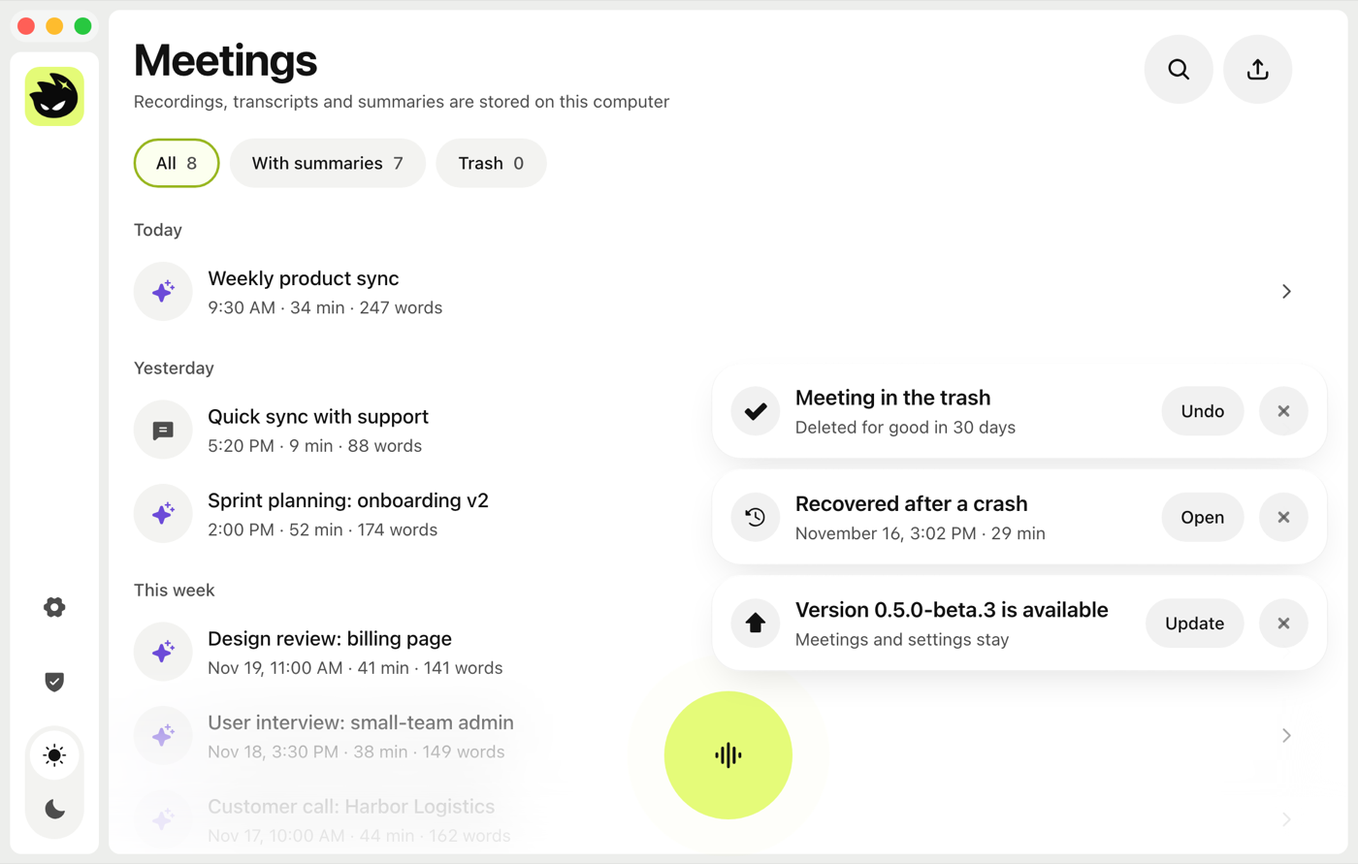
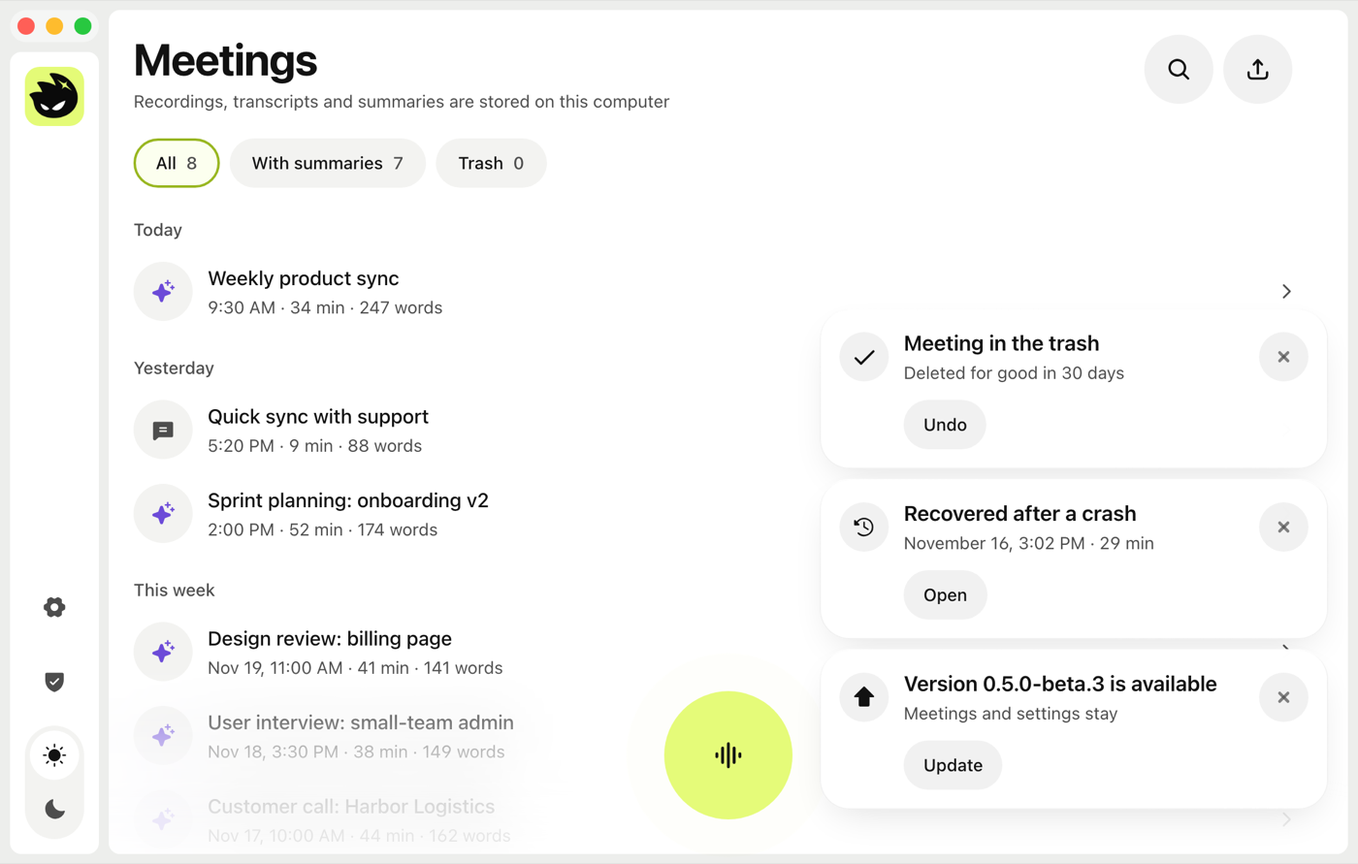
Угол в правом нижнем углу до кнопки записи, галочка тоньше
Стек больше не поднимается над кнопкой записи при окне 1100: ширина угла
до места справа от дока (не больше 500, не меньше 360), низ на линии дока.
Уже 500 действие встаёт под текст второй строкой, заголовок и подпись
в одну строку. Меньше 360 сбоку (капсула записи, итог, окно 640) - подъём.

Галочка «готово» в карточках уведомлений Check bold вместо CheckFat:
по весу с часами и стрелкой. Страж значков пропускает её только там.

Снимки и тур пересняты.

diff --git a/frontend/src/shade/lib/notice-stack.test.ts b/frontend/src/shade/lib/notice-stack.test.ts
@@ -1,36 +1,51 @@
 // Ширина угла и когда он поднимается над доком записи: bun test src/shade (pnpm test).
 import { describe, expect, test } from 'bun:test';
-import { CORNER_WIDTH, cornerLayout, SIDE_GAP, TOAST_EDGE } from './notice-stack';
+import { CORNER_MIN, CORNER_WIDTH, cornerLayout, SIDE_GAP, TOAST_EDGE } from './notice-stack';
 
 // Колонка 0..R, свободное место справа от содержимого дока: R - 16 - (right + 24)
 const R = 1200;
 const rightFor = (free: number) => R - TOAST_EDGE - SIDE_GAP - free;
 
-describe('cornerLayout: одна ширина, подъём вместо сужения', () => {
-  test('ширина угла 500 px (самая длинная строка с кнопкой)', () => {
+describe('cornerLayout: в углу, до места сбоку от дока; меньше CORNER_MIN - подъём', () => {
+  test('ширина угла до 500 px (самая длинная строка с кнопкой), не уже 360 px сбоку', () => {
     expect(CORNER_WIDTH).toBe(500);
+    expect(CORNER_MIN).toBe(360);
   });
   test('пустой док: полная ширина, низ на линии дока', () => {
     expect(cornerLayout(R, R, [])).toEqual({ width: CORNER_WIDTH, lift: false });
   });
-  test('сбоку ровно ширина угла: стоит рядом с доком', () => {
-    expect(cornerLayout(R, R, [rightFor(CORNER_WIDTH)])).toEqual({ width: CORNER_WIDTH, lift: false });
+  test('сбоку больше 500: 500, рядом с доком', () => {
+    expect(cornerLayout(R, R, [rightFor(CORNER_WIDTH + 200)])).toEqual({ width: CORNER_WIDTH, lift: false });
   });
-  test('на 1 px меньше: не сужается, а поднимается над доком', () => {
-    expect(cornerLayout(R, R, [rightFor(CORNER_WIDTH - 1)])).toEqual({ width: CORNER_WIDTH, lift: true });
+  test('сбоку 420: сужается до 420 и стоит рядом, в кнопку не упирается', () => {
+    const r = cornerLayout(R, R, [rightFor(420)]);
+    expect(r).toEqual({ width: 420, lift: false });
+    // левый край угла правее содержимого дока с зазором
+    expect(R - TOAST_EDGE - r.width).toBeGreaterThanOrEqual(rightFor(420) + SIDE_GAP);
   });
-  test('окно 1100 (колонка 1004) и кнопка записи 104 px: над доком справа', () => {
+  test('сбоку ровно CORNER_MIN: ещё рядом; на 1 px меньше - над доком во всю ширину', () => {
+    expect(cornerLayout(R, R, [rightFor(CORNER_MIN)])).toEqual({ width: CORNER_MIN, lift: false });
+    expect(cornerLayout(R, R, [rightFor(CORNER_MIN - 1)])).toEqual({ width: CORNER_WIDTH, lift: true });
+  });
+  test('окно 1100 (колонка 1004) и кнопка записи 104 px: рядом с кнопкой, 410 px', () => {
     const col = 1004;
-    expect(cornerLayout(col, col, [col / 2 + 52])).toEqual({ width: CORNER_WIDTH, lift: true });
+    expect(cornerLayout(col, col, [col / 2 + 52])).toEqual({ width: 410, lift: false });
   });
-  test('широкое окно (колонка 1400) и кнопка записи: рядом с кнопкой', () => {
+  test('широкое окно (колонка 1400) и кнопка записи: рядом, 500 px', () => {
     const col = 1400;
     expect(cornerLayout(col, col, [col / 2 + 52])).toEqual({ width: CORNER_WIDTH, lift: false });
   });
-  test('считается по самой широкой строке дока', () => {
-    expect(cornerLayout(R, R, [300, 900])).toEqual({ width: CORNER_WIDTH, lift: true });
+  test('капсула записи или итог в доке (широкая строка): над доком', () => {
+    const col = 1004;
+    expect(cornerLayout(col, col, [col / 2 + 52, col / 2 + 260])).toEqual({ width: CORNER_WIDTH, lift: true });
   });
-  test('узкая колонка 420: угол во всю колонку без полей, над доком', () => {
+  test('окно 640 (колонка 544) и кнопка записи: над доком, ширина колонки без полей', () => {
+    expect(cornerLayout(544, 544, [272 + 52])).toEqual({ width: 500, lift: true });
+  });
+  test('узкая колонка 420: угол во всю колонку без полей; сбоку места нет - над доком', () => {
     expect(cornerLayout(420, 420, [300])).toEqual({ width: 388, lift: true });
+  });
+  test('свободное место дробное: ширина целая, вниз', () => {
+    expect(cornerLayout(R, R, [rightFor(420.6)]).width).toBe(420);
   });
 });

diff --git a/frontend/src/shade/lib/notice-stack.ts b/frontend/src/shade/lib/notice-stack.ts
@@ -1,8 +1,9 @@
 // Угол (CornerStack) стоит в правом нижнем углу колонки страницы, низ на одной линии с низом
-// дока записи (RecordDock: кнопка записи, капсула, итог, карточки про микрофон). Ширина угла
-// одна, CORNER_WIDTH (по самой длинной строке с кнопкой, ru и en, docs/ui/notifications.md);
-// уже она бывает только в колонке уже CORNER_WIDTH + 2 × 16 px. Если сбоку от содержимого
-// дока ширины нет, стек поднимается над доком на 8 px (--tile-gap), оставаясь справа: друг на
+// дока записи (RecordDock: кнопка записи, капсула, итог, карточки про микрофон). Ширина угла не
+// больше CORNER_WIDTH (по самой длинной строке с кнопкой, ru и en, docs/ui/notifications.md) и не
+// больше места справа от содержимого дока: карточки не упираются в кнопку записи и не оставляют
+// пустоты под собой (решение владельца 21.11.2026). Если сбоку меньше CORNER_MIN, стек
+// поднимается над доком на 8 px (--tile-gap), оставаясь справа, во всю ширину угла: друг на
 // друга док и угол не ложатся ни при какой ширине окна.
 //
 // RecordDock меряет себя и пишет в :root переменные, стиль угла в globals.css (.shade-corner)
@@ -30,6 +31,12 @@ export const CORNER_WIDTH = 500;
 /** Прежнее имя ширины (тесты и стили). */
 export const TOAST_WIDTH = CORNER_WIDTH;
 
+/**
+ * Уже этого сбоку от дока угол не сужается, а поднимается над доком: заголовок самой длинной
+ * карточки («Восстановлена после сбоя», «Доступна версия X») в одну строку, действие под ним.
+ */
+export const CORNER_MIN = 360;
+
 /** Зазор сбоку между содержимым дока и углом (с запасом на ореол кнопки записи). */
 export const SIDE_GAP = 24;
 
@@ -50,14 +57,15 @@ function contentRight(el: HTMLElement, full: number): number {
 
 /**
  * Ширина угла и нужен ли подъём над доком (чистая функция для теста). rights: правые края
- * содержимого строк дока; пустой список, если в доке пусто. Ширина одна: сбоку не помещается
- * целиком - подъём, а не сужение.
+ * содержимого строк дока; пустой список, если в доке пусто. Сбоку от дока угол сужается до
+ * свободного места, но не уже CORNER_MIN; меньше - подъём во всю ширину.
  */
 export function cornerLayout(columnRight: number, columnWidth: number, rights: number[]): { width: number; lift: boolean } {
-  const width = Math.max(0, Math.min(CORNER_WIDTH, columnWidth - 2 * TOAST_EDGE));
-  if (rights.length === 0) return { width, lift: false };
-  const free = columnRight - TOAST_EDGE - (Math.max(...rights) + SIDE_GAP);
-  return { width, lift: free < width };
+  const full = Math.max(0, Math.min(CORNER_WIDTH, columnWidth - 2 * TOAST_EDGE));
+  if (rights.length === 0) return { width: full, lift: false };
+  const free = Math.floor(columnRight - TOAST_EDGE - (Math.max(...rights) + SIDE_GAP));
+  if (free >= Math.min(CORNER_MIN, full)) return { width: Math.min(full, free), lift: false };
+  return { width: full, lift: true };
 }
 
 const useIsoLayoutEffect = typeof window !== 'undefined' ? useLayoutEffect : useEffect;

diff --git a/frontend/src/shade/components/ui/notice.tsx b/frontend/src/shade/components/ui/notice.tsx
@@ -8,10 +8,12 @@
 // длинная ошибка ядра обрезается многоточием, целиком в подсказке. Действие - серая капсула
 // (NOTICE_SECONDARY): лайм только у кнопки записи и «Отправить» в форме отзыва.
 // Ошибки role="alert", остальное role="status"; фокус карточка не забирает.
+// Угол уже CORNER_WIDTH (место справа от кнопки записи): действие переходит под текст второй
+// строкой, крестик справа сверху (@container shade-corner в globals.css).
 'use client';
 
 import * as React from 'react';
-import { ArrowFatUp, CheckFat, ClockCounterClockwise, Warning } from '@phosphor-icons/react';
+import { ArrowFatUp, Check, ClockCounterClockwise, Warning } from '@phosphor-icons/react';
 import { CloseButton } from '@/shade/components/ui/close-button';
 import { Spinner } from '@/shade/components/ui/spinner';
 import { Button } from '@/shade/components/ui/button';
@@ -46,11 +48,12 @@ const MARK_TONE: Record<NoticeTone, string> = {
   error: `${MARK_BG} text-destructive-ink`,
 };
 
-/** Значок по смыслу. Все Phosphor в заливке, «i» свой (InfoFatIcon), ожидание - Spinner. */
+/** Значок по смыслу. Phosphor в заливке, галочка bold (по весу с часами и стрелкой), «i» свой (InfoFatIcon), ожидание - Spinner. */
 export function NoticeGlyph({ kind }: { kind: NoticeIconKind }) {
   switch (kind) {
     case 'done':
-      return <CheckFat weight="fill" />;
+      // Обычная галочка bold: CheckFat тяжелее часов и стрелки рядом (решение владельца 21.11.2026)
+      return <Check weight="bold" />;
     case 'info':
       return <InfoFatIcon />;
     case 'problem':
@@ -107,11 +110,11 @@ export const Notice = React.forwardRef<HTMLDivElement, NoticeProps>(
   ({ icon, tone = 'neutral', title, hint, hintTitle, actions, onClose, closeLabel, className, ...props }, ref) => (
     <NoticeSurface ref={ref} className={cn('flex min-w-0 items-center gap-3', className)} data-shade-notice="" {...props}>
       {icon && (
-        <NoticeMark tone={icon === 'problem' && tone === 'neutral' ? 'error' : tone}>
+        <NoticeMark tone={icon === 'problem' && tone === 'neutral' ? 'error' : tone} className="shade-notice-mark">
           <NoticeGlyph kind={icon} />
         </NoticeMark>
       )}
-      <div className={cn('min-w-0 flex-1', !icon && 'pl-1')}>
+      <div className={cn('shade-notice-text min-w-0 flex-1', !icon && 'pl-1')}>
         <p className={NOTICE_TITLE} title={typeof title === 'string' ? title : undefined}>
           {title}
         </p>
@@ -121,8 +124,8 @@ export const Notice = React.forwardRef<HTMLDivElement, NoticeProps>(
           </p>
         )}
       </div>
-      {actions && <div className="flex shrink-0 items-center gap-2">{actions}</div>}
-      {onClose && <CloseButton label={closeLabel ?? ''} onClick={onClose} className="static size-10 translate-y-0" />}
+      {actions && <div className="shade-notice-actions flex shrink-0 items-center gap-2">{actions}</div>}
+      {onClose && <CloseButton label={closeLabel ?? ''} onClick={onClose} className="shade-notice-close static size-10 translate-y-0" />}
     </NoticeSurface>
   ),
 );

diff --git a/frontend/src/shade/lib/icons-guard.test.ts b/frontend/src/shade/lib/icons-guard.test.ts
@@ -1,6 +1,7 @@
 // Страж значков (docs/ui/foundations.md, «Иконки»): только Phosphor, только залитые. bun test src/shade (pnpm test).
 //  1. Чужих наборов значков в слое Shade нет.
-//  2. Начертания regular, light, thin, duotone не используются; bold только у шевронов Caret* и лупы.
+//  2. Начертания regular, light, thin, duotone не используются; bold только у шевронов Caret*, лупы
+//     и галочки Check в круге карточек уведомлений (ui/notice.tsx, FinishCard.tsx; владелец 21.11.2026).
 //  3. Заливку по умолчанию даёт ShadeIcons (IconContext). Компонент Shade, смонтированный в
 //     app/layout.tsx вне <ShadeIcons>, обязан обернуть себя сам, если он сам или то, что он
 //     импортирует, рисует значки Phosphor: иначе знаки без явного weight рисуются контуром
@@ -28,7 +29,7 @@ describe('значки Shade', () => {
     expect(bad.map((f) => relative(SRC, f))).toEqual([]);
   });
 
-  test('начертания: только fill; bold у шевронов Caret* и лупы MagnifyingGlass', () => {
+  test('начертания: только fill; bold у шевронов Caret*, лупы MagnifyingGlass и галочки уведомлений', () => {
     const bad: string[] = [];
     for (const f of files) {
       const lines = read(f).split('\n');
@@ -37,6 +38,8 @@ describe('значки Shade', () => {
           const [, tag, weight] = m;
           if (weight === 'fill') continue;
           if (weight === 'bold' && (/^Caret/.test(tag) || tag === 'MagnifyingGlass')) continue;
+          // Галочка «готово» в круге уведомлений: CheckFat тяжелее часов и стрелки рядом
+          if (weight === 'bold' && tag === 'Check' && /components\/(ui\/notice|FinishCard)\.tsx$/.test(f)) continue;
           bad.push(`${relative(SRC, f)}:${i + 1} <${tag} weight="${weight}">`);
         }
       });

diff --git a/frontend/src/shade/styles/globals.css b/frontend/src/shade/styles/globals.css
@@ -235,6 +235,8 @@
    (--shade-toast-w, lib/notice-stack.ts); если сбоку от дока не помещается, подъём над доком
    через transform, плавно. Высота не больше окна: раскрытый стек прокручивается. */
 .shade-corner {
+  /* Ширину угла читают карточки: уже 500 px действие уходит под текст (ниже) */
+  container: shade-corner / inline-size;
   right: calc(var(--shade-stack-right, 0px) + 16px);
   bottom: var(--shade-stack-bottom, 28px);
   width: var(--shade-toast-w, min(500px, calc(100vw - 32px)));
@@ -254,6 +256,33 @@
 
 .shade-corner-list::-webkit-scrollbar {
   display: none;
+}
+
+/* Узкий угол (сбоку от кнопки записи меньше 500 px, lib/notice-stack.ts): заголовок и подпись
+   в одну строку на всю ширину, действие второй строкой под текстом, крестик справа сверху.
+   Порог - CORNER_WIDTH: шире все строки с кнопкой помещаются в одну. */
+@container shade-corner (max-width: 499px) {
+  .shade-corner [data-shade-notice]:has(> .shade-notice-actions) {
+    display: grid;
+    grid-template-columns: auto minmax(0, 1fr) auto;
+    grid-template-areas:
+      'mark text close'
+      '. actions actions';
+    row-gap: 12px;
+  }
+  .shade-corner [data-shade-notice] > .shade-notice-mark {
+    grid-area: mark;
+  }
+  .shade-corner [data-shade-notice] > .shade-notice-text {
+    grid-area: text;
+  }
+  .shade-corner [data-shade-notice] > .shade-notice-actions {
+    grid-area: actions;
+    justify-self: start;
+  }
+  .shade-corner [data-shade-notice] > .shade-notice-close {
+    grid-area: close;
+  }
 }
 
 /* Пока открыт диалог, угол ждёт под его затемнением, а не ложится поверх окна */

diff --git a/frontend/src/shade/components/CornerStack.tsx b/frontend/src/shade/components/CornerStack.tsx
@@ -4,7 +4,8 @@
 //  - Стек снизу вверх, новая снизу, промежуток 8 px (STACK_GAP). Видно не больше трёх (MAX_VISIBLE);
 //    старшие свёрнуты в стопку «+N» над верхней карточкой. Наведение или фокус раскрывают все.
 //  - Пока указатель или фокус на стеке и пока окно свёрнуто, время у всех карточек стоит.
-//  - Ширина одна (--shade-toast-w), место и подъём над доком считает lib/notice-stack.ts.
+//  - Ширина общая (--shade-toast-w, до 500 px и не больше места справа от кнопки записи), место
+//    и подъём над доком считает lib/notice-stack.ts; уже 500 px действие под текстом (globals.css).
 //  - Появление из размытия со сдвигом снизу, уход на месте с размытием, соседи съезжают плавно
 //    (высота через grid-template-rows); prefers-reduced-motion: только прозрачность (globals.css).
 //  - Фокус не перехватывается: карточка появляется, но фокус остаётся, где был.

diff --git a/frontend/src/shade/components/FinishCard.tsx b/frontend/src/shade/components/FinishCard.tsx
@@ -10,7 +10,7 @@
 'use client';
 
 import { useEffect, useState } from 'react';
-import { CheckFat } from '@phosphor-icons/react';
+import { Check } from '@phosphor-icons/react';
 import { Notice, NoticeButton } from '@/shade/components/ui/notice';
 import { resultTimeout } from '@/shade/lib/notice-timing';
 import { SoundCheckDialog } from '@/shade/components/SoundCheck';
@@ -39,7 +39,7 @@ export function FinishGlyph({ stage }: { stage: FinishCardStage }) {
           <span className="shade-fg-in" />
         </span>
       ))}
-      <CheckFat className="shade-fg-check" />
+      <Check weight="bold" className="shade-fg-check" />
     </span>
   );
 }

diff --git a/docs/ui/notifications.md b/docs/ui/notifications.md
@@ -25,7 +25,7 @@
   - две восстановлены после сбоя: «Восстановлено 2 встречи» и «Показать» (список встреч).
 - Тот же `id` заменяет карточку на месте (ожидание → итог, как в sonner).
 - «Не получилось обновить» только после «Обновить» человеком; фоновая проверка без сети или с битой подписью молчит (`lib/updates.ts`). «Доступна версия» во время записи не показывается.
-- Стек никогда не накрывает док. Ширина угла одна, 500 px (`CORNER_WIDTH`, по самой длинной строке «Доступна версия 0.5.0-beta.2» и «Обновить» на обоих языках), уже колонки без полей не бывает. Если справа от дока места меньше, стек поднимается над доком и остаётся справа (`cornerLayout` в `lib/notice-stack.ts`). Окно 1100 px: подъём; колонка от 1400 px: сбоку от кнопки.
+- Стек в правом нижнем углу колонки, низ на линии дока, и никогда не накрывает док (решение владельца 21.11.2026: без пустоты под стеком, в кнопку записи не упираться). Ширина не больше 500 px (`CORNER_WIDTH`, по самой длинной строке «Доступна версия 0.5.0-beta.2» и «Обновить» на обоих языках) и не больше места справа от содержимого дока с зазором 24 px (`cornerLayout` в `lib/notice-stack.ts`). Уже 500 px действие карточки встаёт под текст второй строкой, крестик справа сверху (`@container shade-corner` в `globals.css`), и заголовок с подписью остаются в одну строку. Сбоку меньше 360 px (`CORNER_MIN`: капсула записи, итог в доке, окно 640) - стек поднимается над доком во всю ширину и остаётся справа. Окно 1100 с кнопкой записи: сбоку, 412 px; от 1300: 500 px.
 - Пока открыт диалог, угол под его затемнением.
 
 ## Сроки (`lib/notice-timing.ts`)
@@ -45,8 +45,8 @@
 - Слева круг 40 px со значком (`NoticeMark`), через 12 px заголовок 17 px и подпись 14 px, каждая в одну строку (`NOTICE_TITLE`, `NOTICE_HINT`); не помещается: многоточие и полный текст в подсказке. Держит одну строку длина текста (`strings.test.ts`: угол до 33 знаков, док до 36), а не обрезка.
 - Действия справа в той же строке, высота 40 px; вторичная кнопка серой капсулой (`NOTICE_SECONDARY`). Дальше крестик 40 px (`CloseButton`).
 - Лайм только у кнопки записи и «Отправить»; «Вернуть», «Открыть», «Обновить» серые.
-- Значки (`NoticeGlyph`, Phosphor fill и свой `InfoFatIcon`): готово - галочка; сведения (пустая, без речи, не распознана, мало содержания) - «i»; проблема - треугольник; ожидание - крутилка; восстановление - часы со стрелкой; обновление - стрелка вверх.
-- Поля одни: `p-4`. Ширина в углу общая (`--shade-toast-w`), в доке по содержимому, не уже 500 px и не шире колонки (`DOCK_CARD`).
+- Значки (`NoticeGlyph`, Phosphor fill и свой `InfoFatIcon`): готово - галочка `Check` bold (залитая `CheckFat` тяжелее часов и стрелки рядом; владелец 21.11.2026), так же у «Встреча сохранена» в доке; сведения (пустая, без речи, не распознана, мало содержания) - «i»; проблема - треугольник; ожидание - крутилка; восстановление - часы со стрелкой; обновление - стрелка вверх.
+- Поля одни: `p-4`. Ширина в углу общая (`--shade-toast-w`, от 360 до 500 px, см. «Угол»), в доке по содержимому, не уже 500 px и не шире колонки (`DOCK_CARD`).
 - Ошибки `role="alert"`, остальное `role="status"`. Фокус не перехватывается; исключение: открытая форма «Что улучшить?».
 - `prefers-reduced-motion`: только прозрачность.
 
@@ -86,4 +86,4 @@
 
 ## Тесты
 
-`lib/corner.test.ts` (стек, «+N», склейка и «Вернуть» обеих, сроки, пауза), `lib/notice-stack.test.ts` (док и угол не пересекаются при любой ширине), `lib/mic-access.test.ts` (карточка микрофона без нажатия, «Только звук компьютера» только без микрофона), `lib/toasts.test.ts` (вид тостов оригинала), `lib/crash-recovery.test.ts` (склейка восстановленных), `lib/updates.test.ts` (обновление не во время записи, фоновая ошибка молчит, ручная видна), `components/feedback/feedback-card.test.tsx` (2 звезды открывают форму на месте), `strings.test.ts` (подпись в одну строку).
+`lib/corner.test.ts` (стек, «+N», склейка и «Вернуть» обеих, сроки, пауза), `lib/notice-stack.test.ts` (док и угол не пересекаются при любой ширине, угол сужается до места сбоку от кнопки), `lib/mic-access.test.ts` (карточка микрофона без нажатия, «Только звук компьютера» только без микрофона), `lib/toasts.test.ts` (вид тостов оригинала), `lib/crash-recovery.test.ts` (склейка восстановленных), `lib/updates.test.ts` (обновление не во время записи, фоновая ошибка молчит, ручная видна), `components/feedback/feedback-card.test.tsx` (2 звезды открывают форму на месте), `strings.test.ts` (подпись в одну строку).

diff --git a/docs/ui/foundations.md b/docs/ui/foundations.md
@@ -9,10 +9,10 @@
 
 ## Иконки
 - Только `@phosphor-icons/react` и только залитые (исключение: значки своего рисунка владельца `components/CopyIcon.tsx` («Копировать») и `components/ImportIcon.tsx` («Импорт аудио»), 2026-11-17, залитые, `currentColor`): `weight="fill"` везде (по умолчанию через `ShadeIcons`), `regular` и другие начертания не использовать. Без обёртки `ShadeIcons` у Phosphor по умолчанию `regular`, то есть контур: компонент Shade, который `app/layout.tsx` монтирует вне `<ShadeIcons>` (тосты `ShadeToaster`, окно импорта `ImportDialog`), оборачивает себя сам. Так было с галочкой «Встреча в корзине» и знаками окна импорта до 2026-11-21.
-- Страж `lib/icons-guard.test.ts` (в `pnpm test` и CI): чужих наборов в слое Shade нет; начертание только `fill`, `bold` только у `Caret*` и `MagnifyingGlass`; компоненты вне `<ShadeIcons>` в `layout.tsx`, которые рисуют значки сами или через свои импорты, обёрнуты. Новый знак с другим начертанием или новый корень вне обёртки страж не пропустит.
+- Страж `lib/icons-guard.test.ts` (в `pnpm test` и CI): чужих наборов в слое Shade нет; начертание только `fill`, `bold` только у `Caret*`, `MagnifyingGlass` и галочки `Check` в `ui/notice.tsx` и `FinishCard.tsx`; компоненты вне `<ShadeIcons>` в `layout.tsx`, которые рисуют значки сами или через свои импорты, обёрнуты. Новый знак с другим начертанием или новый корень вне обёртки страж не пропустит.
 - Без иконок со встроенной подложкой: варианты `*Square`, `*Circle` (`CheckCircle`, `WarningCircle`, `Info`, `Question` и т. п.) и всё, что в заливке становится сплошной плашкой (`Subtitles`, `QuestionMark`, `ExclamationMark`).
-- Галочка только `CheckFat` (залитый `Check` нарисован квадратом), крестик только свой залитый `components/XFatIcon.tsx` (у Phosphor залитый `X` тоже квадрат, толстого варианта нет), стрелка обновления `ArrowFatUp` (2026-11-21, владелец: «везде fill»).
-- Исключения, `weight="bold"`: любой шеврон `Caret*` (залитый становится треугольником и читается как «воспроизвести», решение владельца 2026-11-17): `CaretRight` в строке списка, `CaretLeft` в кнопке «Назад», `CaretDown` в полосе итогов; цвет шеврона `text-muted-foreground`, как у второстепенного текста; лупа поиска `MagnifyingGlass` (залитая рисуется диском в кольце).
+- Галочка `CheckFat` (залитый `Check` нарисован квадратом); в круге карточек уведомлений (`NoticeGlyph`, итог записи в доке) обычная `Check` bold: `CheckFat` там тяжелее часов и стрелки рядом (2026-11-21, владелец: «консистентно с остальными иконками»), крестик только свой залитый `components/XFatIcon.tsx` (у Phosphor залитый `X` тоже квадрат, толстого варианта нет), стрелка обновления `ArrowFatUp` (2026-11-21, владелец: «везде fill»).
+- Исключения, `weight="bold"`: любой шеврон `Caret*` (залитый становится треугольником и читается как «воспроизвести», решение владельца 2026-11-17): `CaretRight` в строке списка, `CaretLeft` в кнопке «Назад», `CaretDown` в полосе итогов; цвет шеврона `text-muted-foreground`, как у второстепенного текста; лупа поиска `MagnifyingGlass` (залитая рисуется диском в кольце); галочка «готово» `Check` в круге карточек уведомлений (`NoticeGlyph`, `FinishGlyph`; решение владельца 2026-11-21: залитая `CheckFat` там тяжелее часов и стрелки).
 - Размеры: одна ступень 20 px (`size-5`) в кнопках с текстом, в главных круглых кнопках-иконках 56 px, в сайдбаре, в пустых состояниях и в онбординге (владелец 2026-11-17: 24 px были крупными); 16 px в мелких местах (чипы, крестик 14 px, шеврон); звёзды оценки 24 px остались, это элемент ввода, а не значок.
 - Знак в уведомлениях (`FinishCard`, тосты, карточки про микрофон), в панелях `Alert` (ошибка загрузки, сбой записи, блокеры на главной), в карточках итога и в миниатюрах строк всегда в круге на подложке (вложенная поверхность или мягкий тон роли; у уведомлений круг 44 px, иконка 20 px). Иконки в кнопках без подложки, подложка у самой кнопки. Вторичная кнопка видна на поверхности, где стоит: на панели `Alert` (сама `bg-muted`) `variant="outline"` с `ALERT_SECONDARY`, на стекле уведомлений `NOTICE_SECONDARY`; кнопка без подложки рядом с текстом смотрится сдвинутой. Сами значки без встроенных подложек.
 - Индикатор ожидания только `Spinner` (`components/ui/spinner.tsx`, дуга без подложки, цвет `--loader`), скелетоны только `Skeleton` (`--skeleton`). Иконки-спиннеры Phosphor не использовать: в заливке это диск с вырезом.

diff --git a/docs/ui/feedback.md b/docs/ui/feedback.md
@@ -4,7 +4,7 @@
 
 ## Где живёт
 
-- **Карточка «Как вам Shade?»** (`components/feedback/FeedbackCard.tsx`): тихо, в стиле уведомлений, в правом нижнем углу вместе с остальными карточками угла ([notifications.md](notifications.md#угол); ставит её `components/RecordDock.tsx` через `corner.show`, id `feedback`), не модальная, без таймера. Переживает переходы между страницами. Стекло `shade-glass shade-glass-dense`, ширина угла (500 px, `--shade-toast-w`) на всех шагах, отступ со всех сторон 16 px. Форма «Что улучшить?» вырастает вверх из той же карточки, на месте. Уходит из угла его анимацией, с последним видом.
+- **Карточка «Как вам Shade?»** (`components/feedback/FeedbackCard.tsx`): тихо, в стиле уведомлений, в правом нижнем углу вместе с остальными карточками угла ([notifications.md](notifications.md#угол); ставит её `components/RecordDock.tsx` через `corner.show`, id `feedback`), не модальная, без таймера. Переживает переходы между страницами. Стекло `shade-glass shade-glass-dense`, ширина угла (`--shade-toast-w`, 360-500 px по месту справа от кнопки записи) на всех шагах, отступ со всех сторон 16 px. Форма «Что улучшить?» вырастает вверх из той же карточки, на месте. Уходит из угла его анимацией, с последним видом.
 - **Настройки → Общие → «Обратная связь»** (`FeedbackRows` в `pages/Settings.tsx`, после «Приватности»): раздел «Обратная связь»: строка «Оценка и отзыв» с формой (`components/feedback/FeedbackMorph.tsx`, звёзды и текст); строка-переключатель «Иногда спрашивать оценку», по умолчанию включён.
 - **Функция** `frontend/api/feedback.ts`: Vercel Function проекта «shade» (корень `frontend`), пересылает отзыв в Telegram.
 
